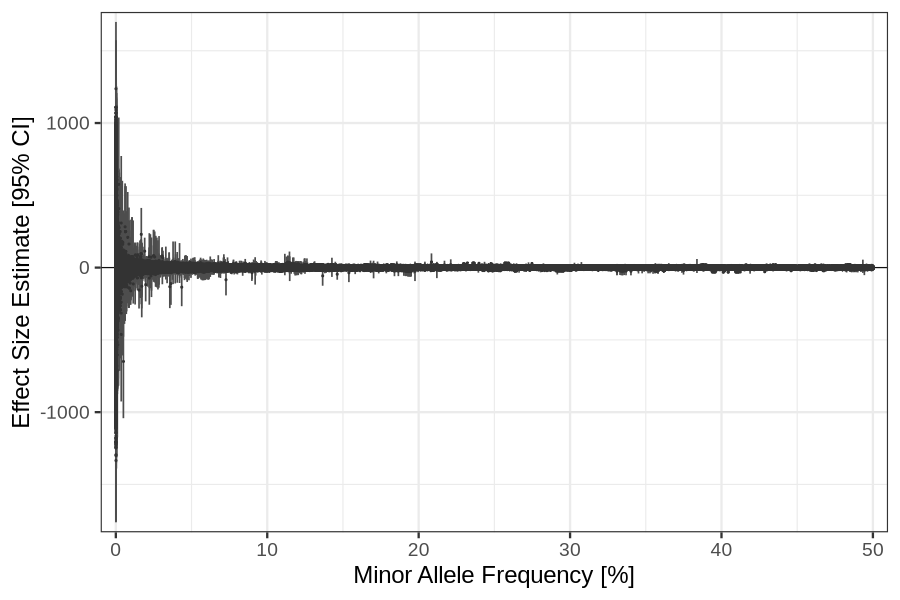
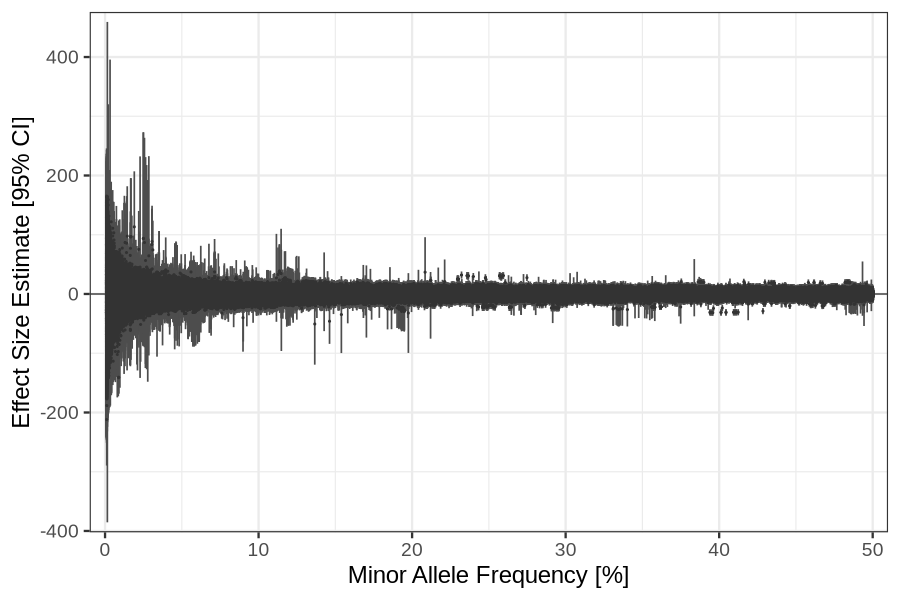
results

diff --git a/gwas/docs/2024.07.01/regenie_no_cojo/weight_birth/.ipynb_checkpoints/pop_children_pheno_birth_weight-checkpoint.md b/gwas/docs/2024.07.01/regenie_no_cojo/weight_birth/.ipynb_checkpoints/pop_children_pheno_birth_weight-checkpoint.md
@@ -1,0 +1,10 @@
+## birth_weight in children
+Association results by regenie for birth_weight in children.
+### Manhattan
+![](figures/pop_children_pheno_birth_weight_mh.png)
+### QQ plot
+![](figures/pop_children_pheno_birth_weight_qq.png)
+### Beta vs. Allele Frequency
+![](figures/pop_children_pheno_birth_weight_beta_af.png)
+### Standard error vs. Allele Frequency
+![](figures/pop_children_pheno_birth_weight_se_af.png)
